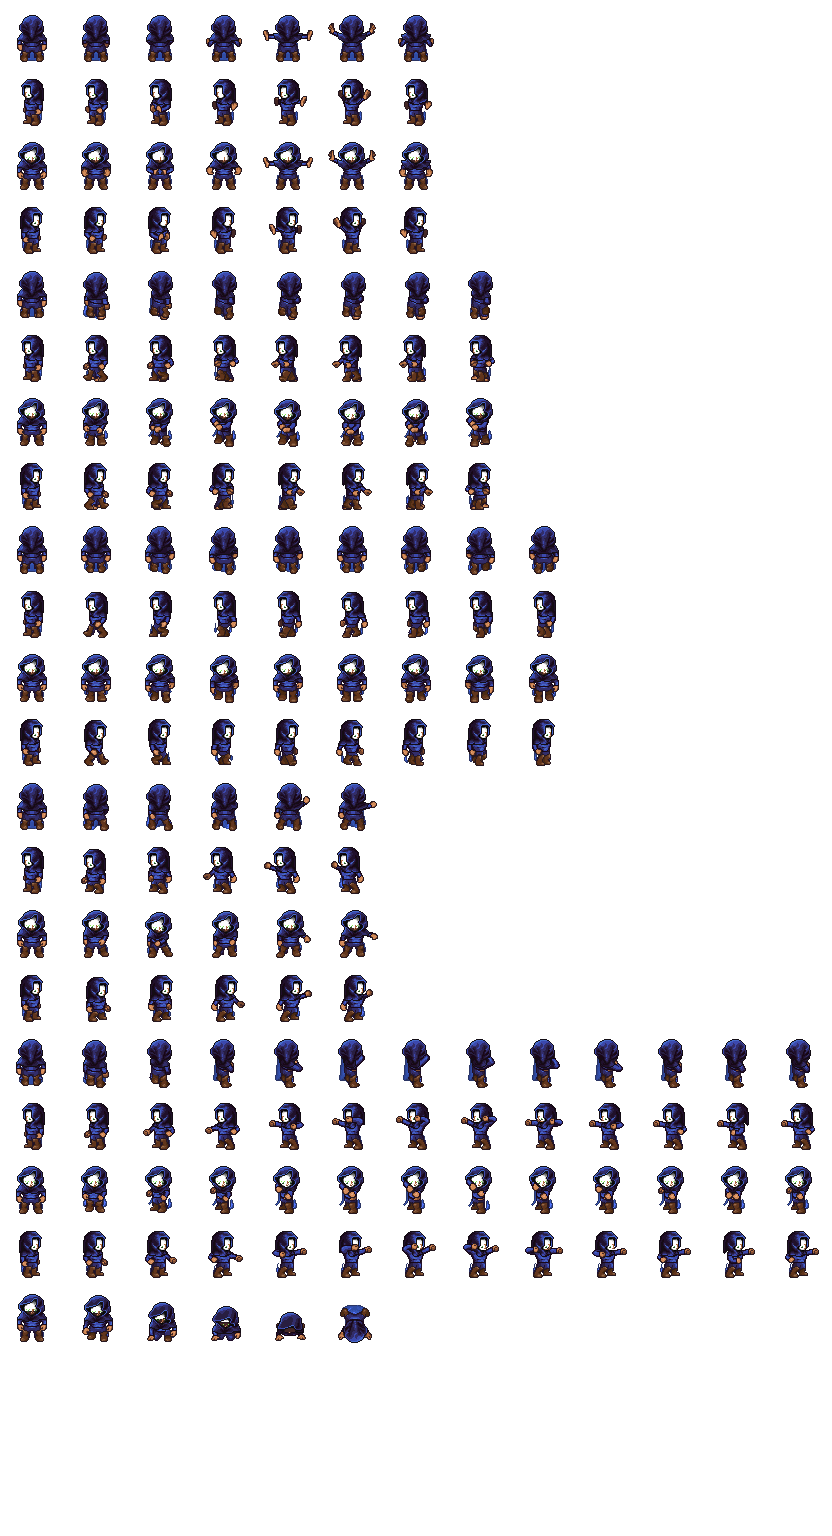
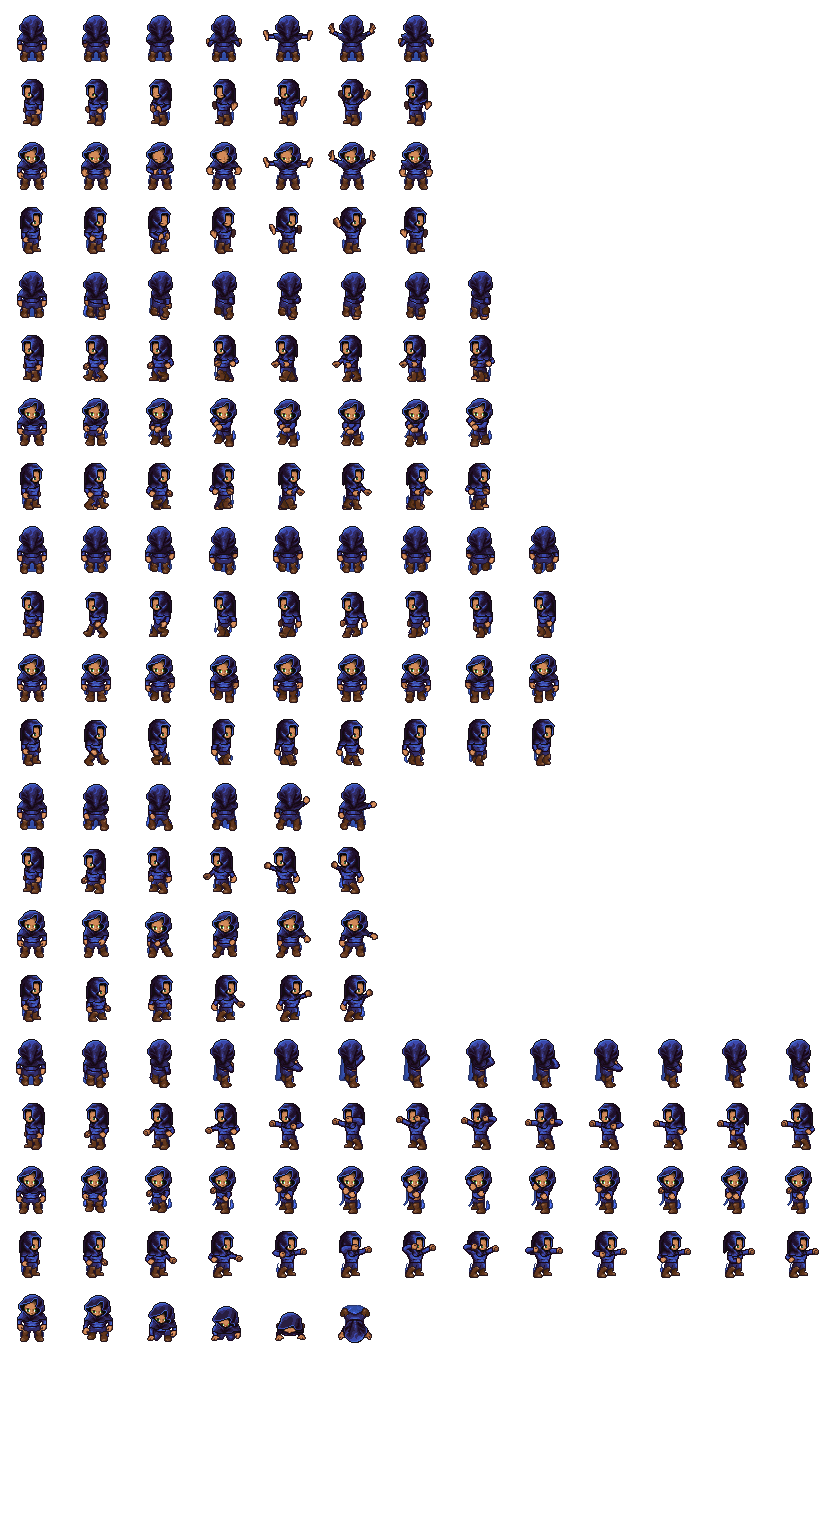
Fix dark faces by adding missing head layer to all characters
The characters were missing the head/heads/human layer which provides
the actual face and head shape. Without it, only the body (neck down),
hair, and eyes were rendering - leaving the face area mostly transparent/dark.

Added appropriate head variants per character:
- Headmaster: male_elderly (aged face)
- Evil Sorcerer: male_gaunt (gaunt, sinister look)
- All others: male (standard face)

https://claude.ai/code/session_01PvUrMtpJmQ4t6V8KjxhTas

diff --git a/tools/generate_sprites.py b/tools/generate_sprites.py
@@ -120,6 +120,7 @@ CHARACTERS = {
         "description": "Headmaster - wise elderly wizard (Dumbledore archetype)",
         "layers": [
             ("body/bodies/male", "light", 10),
+            ("head/heads/human/male_elderly", "light", 11),
             ("head/nose/big/adult", "light", 16),
             ("eyes/human/adult/default", "blue", 15),
             ("hair/long/adult", "white", 20),
@@ -136,6 +137,7 @@ CHARACTERS = {
         "description": "Mean Teacher - dark and brooding (Snape archetype)",
         "layers": [
             ("body/bodies/male", "light", 10),
+            ("head/heads/human/male", "light", 11),
             ("head/nose/big/adult", "light", 16),
             ("eyes/human/adult/default", "brown", 15),
             ("hair/long/adult", "black", 20),
@@ -149,6 +151,7 @@ CHARACTERS = {
         "description": "Mysterious Teacher - enigmatic and hooded",
         "layers": [
             ("body/bodies/male", "olive", 10),
+            ("head/heads/human/male", "olive", 11),
             ("head/nose/straight/adult", "olive", 16),
             ("eyes/human/adult/default", "green", 15),
             ("torso/clothes/longsleeve/longsleeve/male", "navy", 40),
@@ -162,6 +165,7 @@ CHARACTERS = {
         "description": "Best Friend Student - loyal and cheerful (Ron archetype)",
         "layers": [
             ("body/bodies/male", "light", 10),
+            ("head/heads/human/male", "light", 11),
             ("head/nose/button/adult", "light", 16),
             ("eyes/human/adult/default", "blue", 15),
             ("hair/messy2/adult", "carrot", 20),
@@ -174,6 +178,7 @@ CHARACTERS = {
         "description": "Silly Student - goofy and fun-loving",
         "layers": [
             ("body/bodies/male", "light", 10),
+            ("head/heads/human/male", "light", 11),
             ("head/nose/button/adult", "light", 16),
             ("eyes/human/adult/default", "brown", 15),
             ("hair/spiked/adult", "blonde", 20),
@@ -186,6 +191,7 @@ CHARACTERS = {
         "description": "Enemy Student - arrogant rival (Malfoy archetype)",
         "layers": [
             ("body/bodies/male", "light", 10),
+            ("head/heads/human/male", "light", 11),
             ("head/nose/straight/adult", "light", 16),
             ("eyes/human/adult/default", "gray", 15),
             ("hair/parted/adult", "blonde", 20),
@@ -199,6 +205,7 @@ CHARACTERS = {
         "description": "Prefect - uptight rule-follower (Percy archetype)",
         "layers": [
             ("body/bodies/male", "light", 10),
+            ("head/heads/human/male", "light", 11),
             ("head/nose/straight/adult", "light", 16),
             ("eyes/human/adult/default", "brown", 15),
             ("hair/parted/adult", "carrot", 20),
@@ -212,6 +219,7 @@ CHARACTERS = {
         "description": "Evil Sorcerer - dark lord villain (Voldemort archetype)",
         "layers": [
             ("body/bodies/male", "light", 10),
+            ("head/heads/human/male_gaunt", "light", 11),
             ("head/nose/big/adult", "light", 16),
             ("eyes/human/adult/default", "red", 15),
             ("torso/clothes/longsleeve/longsleeve/male", "black", 40),
